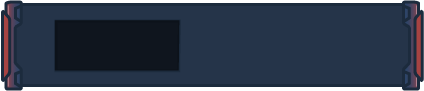
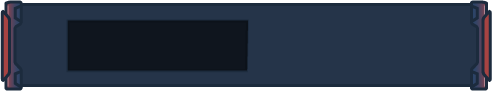
Enlarge titanium frame

diff --git a/src/games/components/TitaniumFrame.css b/src/games/components/TitaniumFrame.css
@@ -2,8 +2,8 @@
     position: absolute;
     display: flex;
     top: 27px;
-    left: calc(max(100%, 960px) - 320px);
-    width: 212px;
+    left: calc(max(100%, 960px) - 360px);
+    width: 246px;
     height: 45px;
     transform: translate(-50%, -50%);
 }
@@ -37,14 +37,14 @@
 .titanium-frame-resource-display-text {
     position: absolute;
     top: 50%;
-    left: 55%;
+    left: 70%;
     transform: translate(-50%, -50%);
     font-size: 12px;
     text-align: center;
     line-height: 100%;
     margin: 0px;
     color: white;
-    width: 35px;
+    width: 70px;
     height: 12px;
     font-family: "mishmash";
     pointer-events: none;
@@ -55,7 +55,7 @@
     position: absolute;
     width: 65px;
     height: 45px;
-    left: 90px;
+    left: 130px;
     top: 5px;
 }
 
@@ -63,6 +63,6 @@
     position: absolute;
     width: 65px;
     height: 45px;
-    left: 145px;
+    left: 185px;
     top: 5px;
 }

diff --git a/src/games/components/TitaniumFrame.tsx b/src/games/components/TitaniumFrame.tsx
@@ -27,9 +27,7 @@ const TitaniumFrame = ({ onClickWithdraw, onClickDeposit }: Props) => {
           src={getResourceIconPath(ResourceType.Titanium)}
           className="titanium-frame-resource-display-image"
         />
-        <p className="titanium-frame-resource-display-text">
-          {getNumberAbbr(titaniumCount)}
-        </p>
+        <p className="titanium-frame-resource-display-text">{titaniumCount}</p>
       </div>
       <div className="titanium-frame-withdraw">
         <WithdrawButton onClick={onClickWithdraw} />
